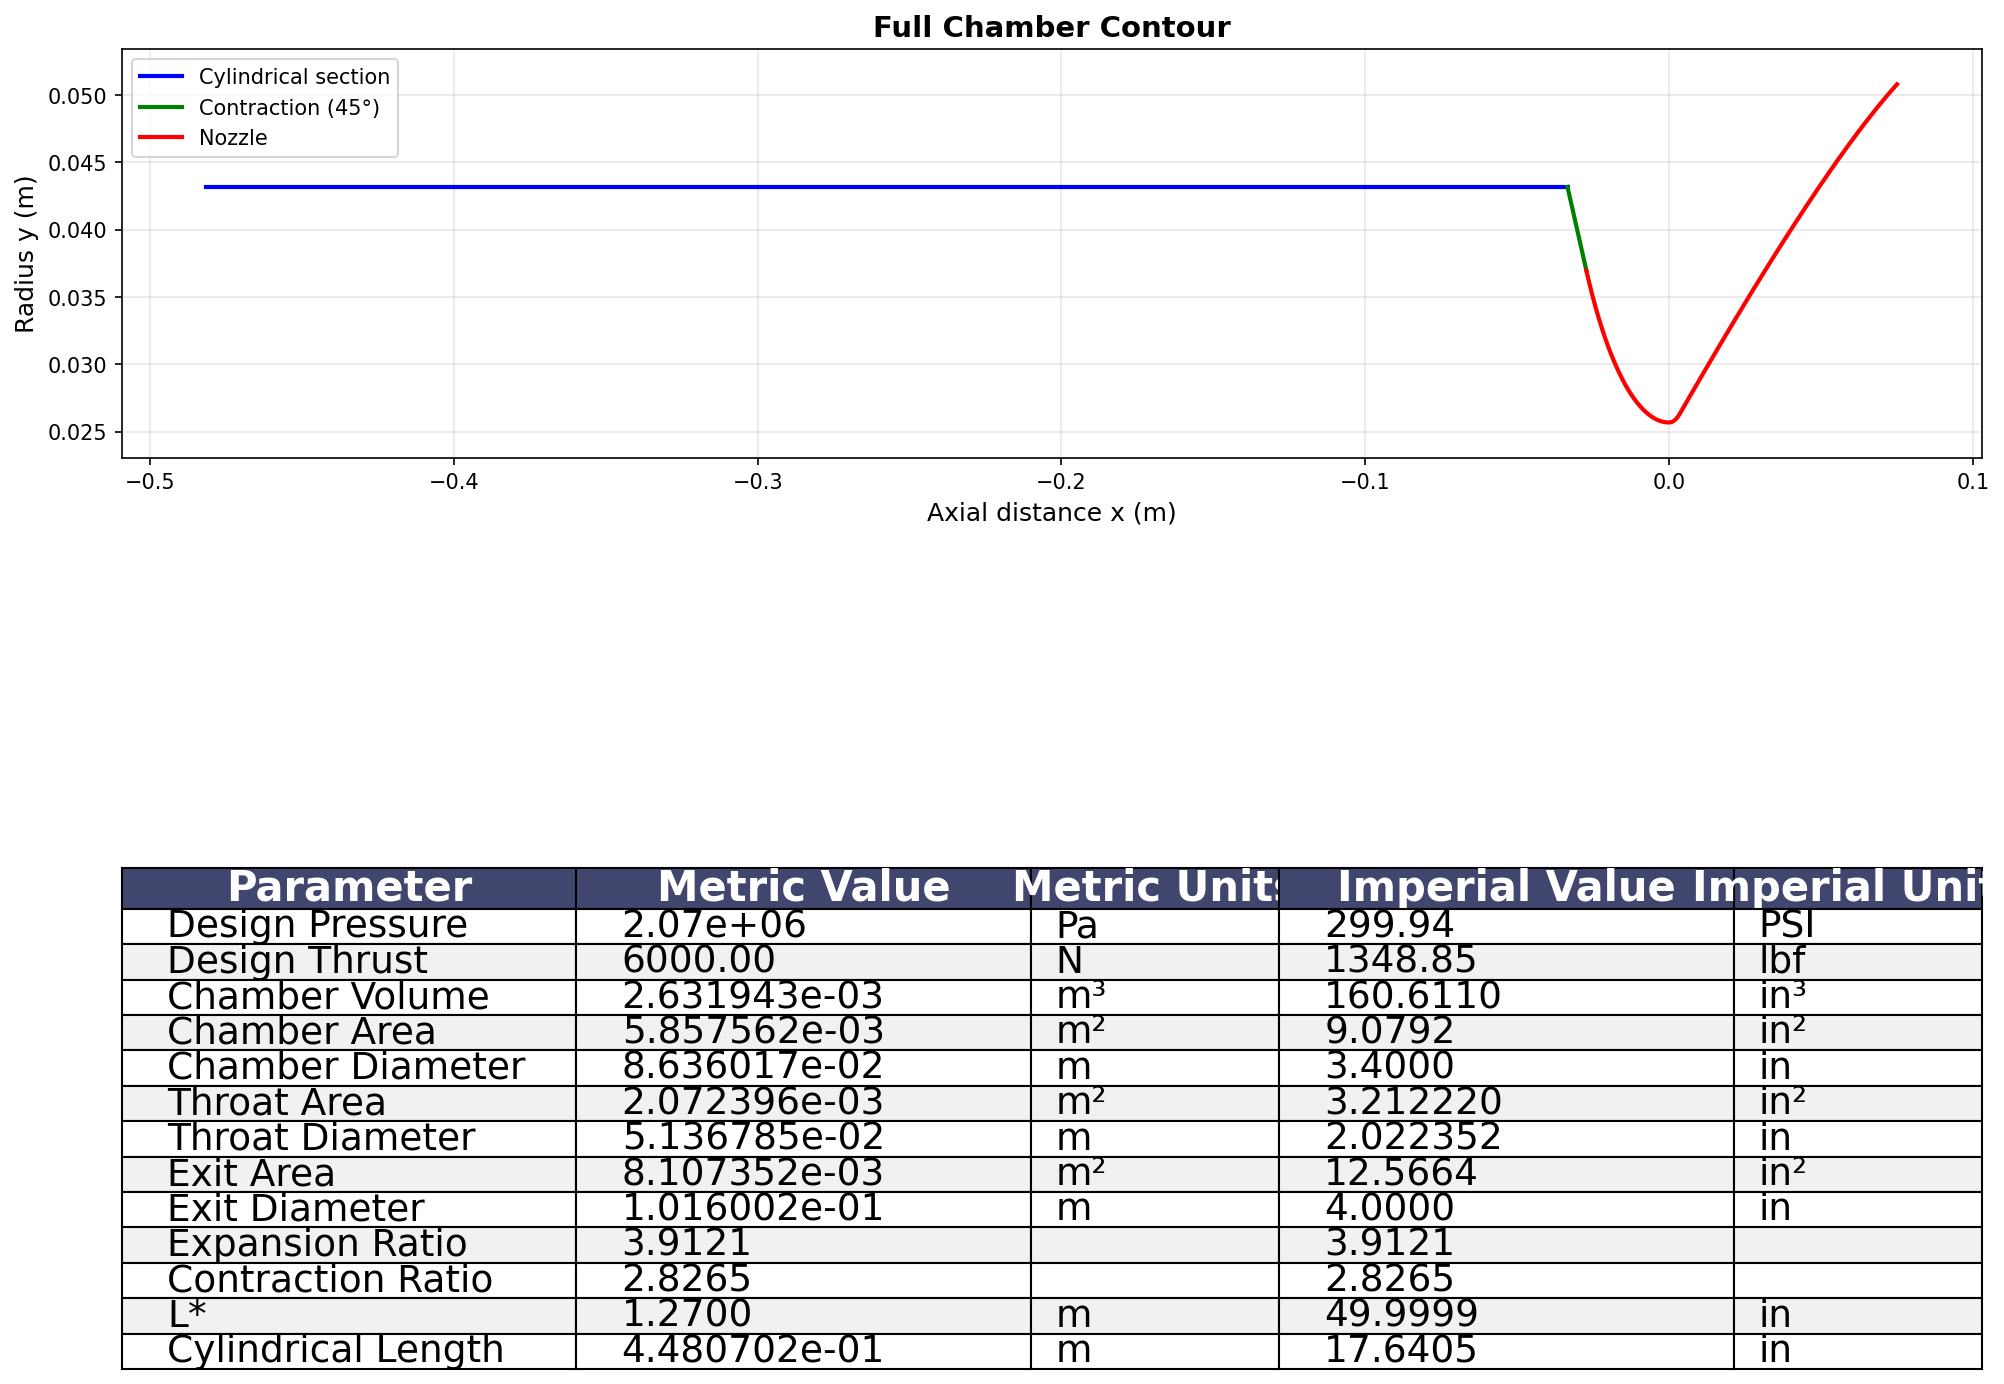
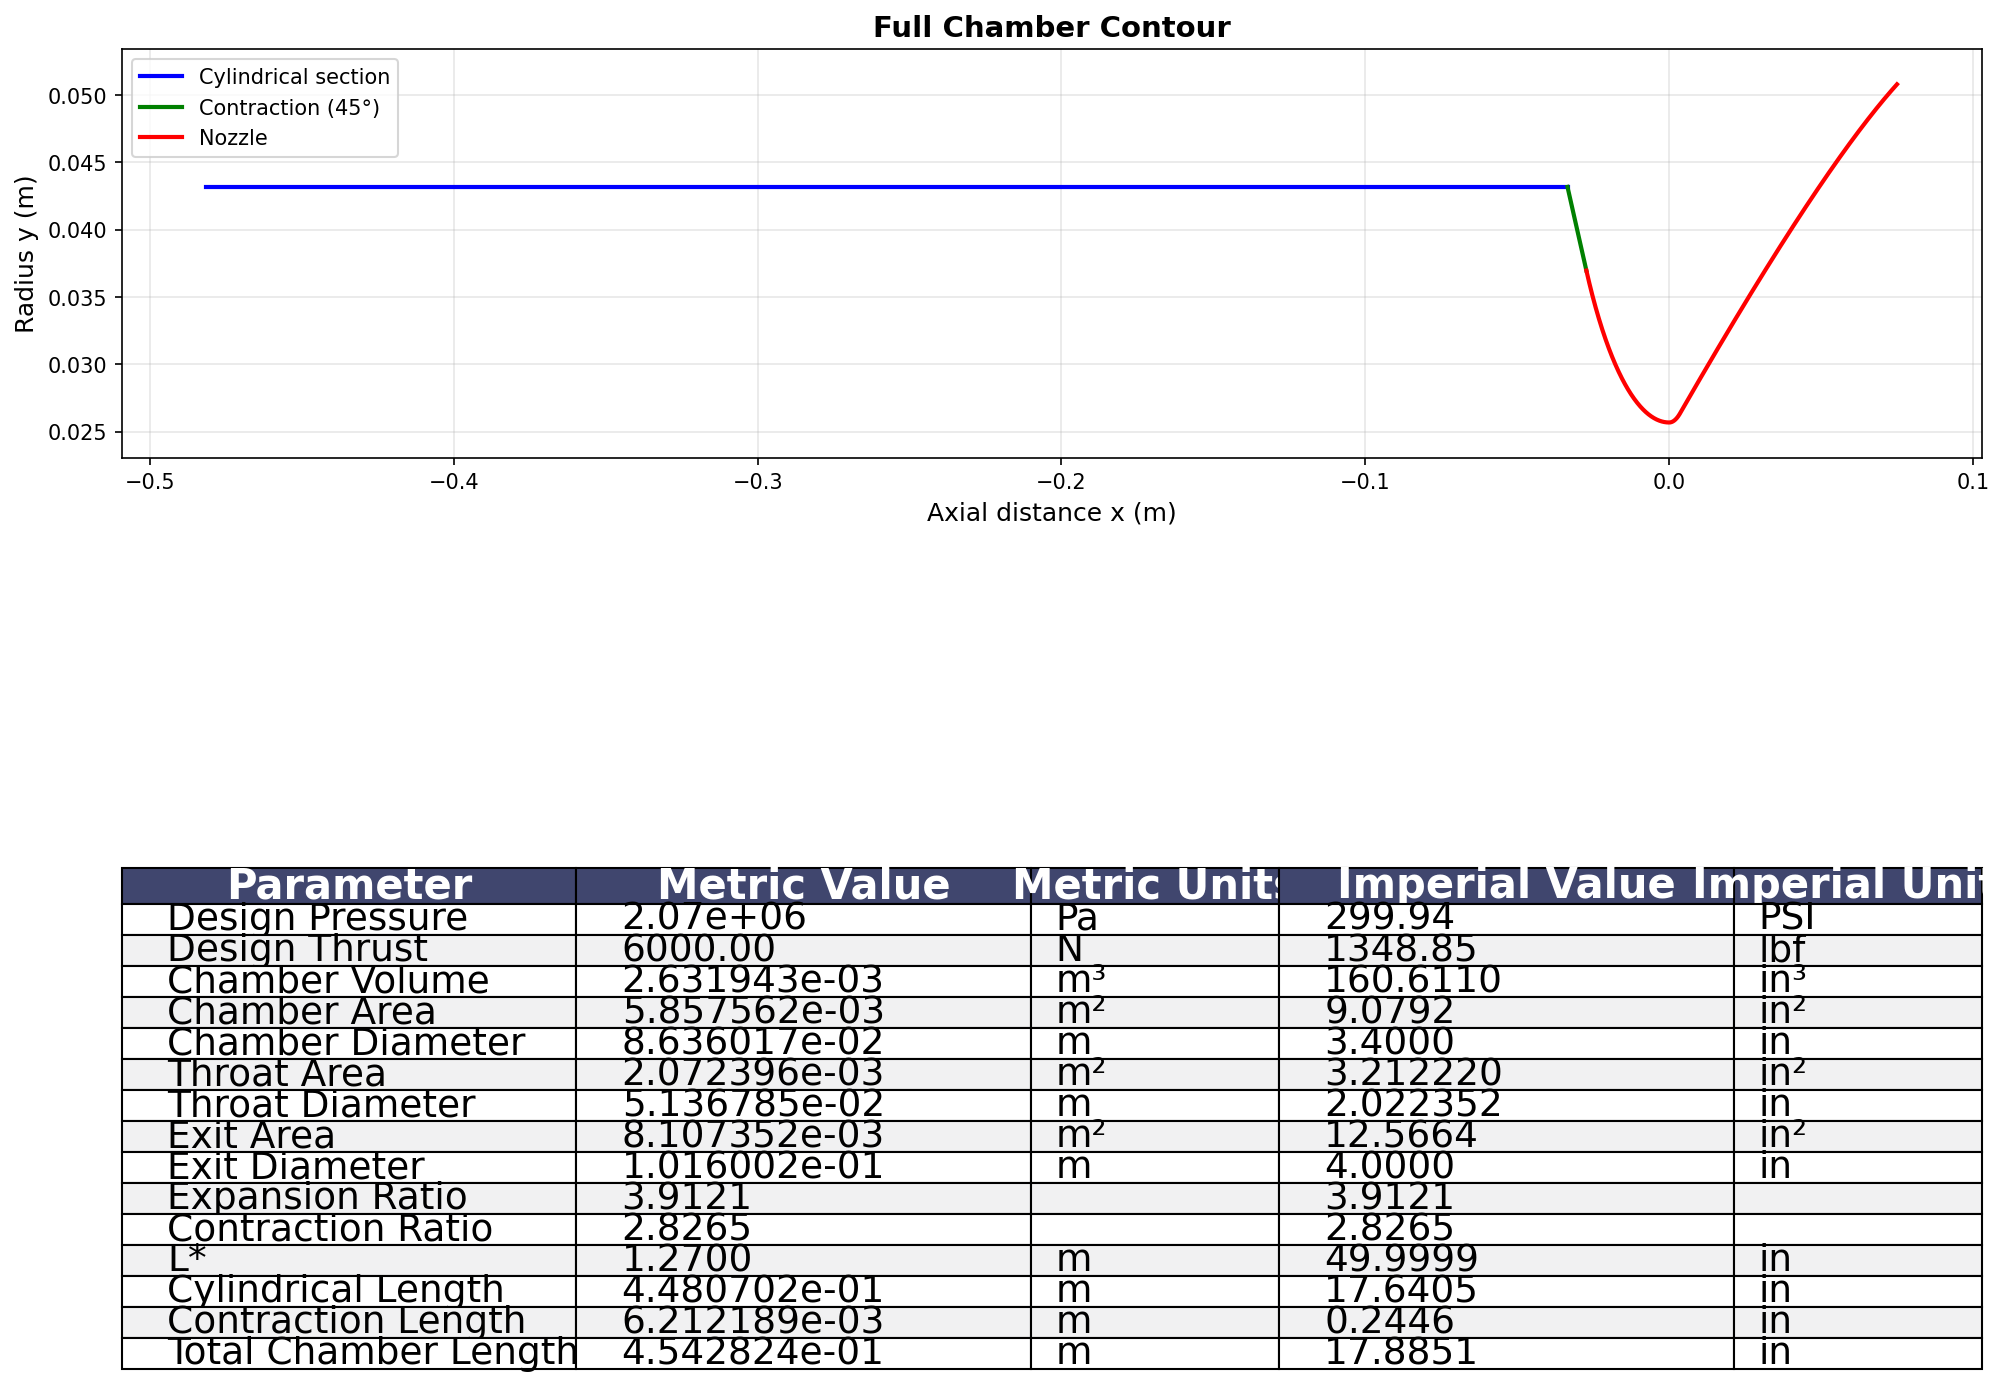
kush is goat

Changed region(s): [[0.0619, 0.6214, 0.99, 0.9942]]

diff --git a/examples/pintle_engine/ui_app.py b/examples/pintle_engine/ui_app.py
@@ -2187,7 +2187,7 @@ def chamber_design_view(config_obj: PintleEngineConfig) -> PintleEngineConfig:
             
             # Calculate chamber geometry
             with st.spinner("Calculating chamber geometry..."):
-                pts, table_data = chamber_geometry_calc(
+                pts, table_data, total_chamber_length = chamber_geometry_calc(
                     pc_design=pc_design_metric,
                     thrust_design=thrust_design_metric,
                     force_coeffcient=force_coefficient,
@@ -2229,6 +2229,10 @@ def chamber_design_view(config_obj: PintleEngineConfig) -> PintleEngineConfig:
                 if "L*" in calculated_values and "Lstar" in config_dict["chamber"]:
                     config_dict["chamber"]["Lstar"] = calculated_values["L*"]
                     updated = True
+                # Update chamber length with total chamber length (cylindrical + contraction)
+                if "Total Chamber Length" in calculated_values:
+                    config_dict["chamber"]["length"] = calculated_values["Total Chamber Length"]
+                    updated = True
             
             # Update nozzle section
             if "nozzle" in config_dict:
@@ -2249,22 +2253,14 @@ def chamber_design_view(config_obj: PintleEngineConfig) -> PintleEngineConfig:
                     updated = True
             
             # Store calculation results in session state so they persist after rerun
+            # Note: config_dict contains the updated values but they are NOT automatically loaded
             st.session_state["chamber_calc_results"] = {
                 "pts": pts,
                 "table_data": table_data,
                 "calculated_values": calculated_values,
                 "config_dict": config_dict,
-                "updated": updated
+                "updated": updated  # This just indicates values were calculated, not that they're loaded
             }
-            
-            if updated:
-                st.success("Configuration updated with calculated values!")
-                # Update session state
-                st.session_state["config_dict"] = config_dict
-                # Recreate config object
-                config_obj = PintleEngineConfig(**config_dict)
-                # Mark that config was updated so runner gets recreated
-                st.session_state["config_updated"] = True
             
             # Generate DXF file for download
             dxf_bytes = None
@@ -2277,7 +2273,7 @@ def chamber_design_view(config_obj: PintleEngineConfig) -> PintleEngineConfig:
                     tmp_dxf_path = tmp_file.name
                 
                 # Generate DXF using chamber_geometry_calc
-                chamber_geometry_calc(
+                _, _, _ = chamber_geometry_calc(
                     pc_design=pc_design_metric,
                     thrust_design=thrust_design_metric,
                     force_coeffcient=force_coefficient,
@@ -2316,11 +2312,6 @@ def chamber_design_view(config_obj: PintleEngineConfig) -> PintleEngineConfig:
             # Display results using helper function
             _display_chamber_results(results_for_display)
             
-            # If config was updated, trigger a rerun to recreate the runner
-            # This happens after displaying results so user can see them
-            if updated:
-                st.rerun()
-            
         except Exception as e:
             st.error(f"Error calculating chamber geometry: {str(e)}")
             import traceback
@@ -2337,8 +2328,6 @@ def chamber_design_view(config_obj: PintleEngineConfig) -> PintleEngineConfig:
             display_results["dxf_bytes"] = None
         
         _display_chamber_results(display_results)
-        # Update config_obj with the stored config_dict
-        config_obj = PintleEngineConfig(**stored_results["config_dict"])
     
     return config_obj
 
@@ -2349,10 +2338,6 @@ def _display_chamber_results(results: dict) -> None:
     table_data = results["table_data"]
     config_dict = results["config_dict"]
     updated = results["updated"]
-    
-    # Display the stored results
-    if updated:
-        st.success("Configuration updated with calculated values!")
     
     # Display results
     st.subheader("Chamber Contour")
@@ -2405,14 +2390,27 @@ def _display_chamber_results(results: dict) -> None:
     )
     st.dataframe(df_table, use_container_width=True, hide_index=True)
     
-    # Download buttons
+    # Load Config button and Downloads
+    st.subheader("Configuration")
+    
+    # Button to explicitly load the calculated config into the active config
+    if updated:
+        if st.button("Load Calculated Config into Active Config", type="primary", key="load_chamber_config"):
+            # Load the calculated config into session state
+            st.session_state["config_dict"] = config_dict
+            # Mark that config was updated so runner gets recreated
+            st.session_state["config_updated"] = True
+            st.success("✓ Calculated configuration loaded! The runner will be recreated with the new values.")
+            st.rerun()
+        st.caption("Click the button above to load the calculated values into your active configuration.")
+    
     st.subheader("Downloads")
     col1, col2 = st.columns(2)
     
     with col1:
         # Download Config button
         config_yaml = yaml.dump(config_dict, default_flow_style=False, sort_keys=False)
-        button_label = "Download Updated Config (YAML)" if updated else "Download Config (YAML)"
+        button_label = "Download Calculated Config (YAML)" if updated else "Download Config (YAML)"
         st.download_button(
             button_label,
             data=config_yaml,
@@ -2421,7 +2419,7 @@ def _display_chamber_results(results: dict) -> None:
             key="download_config_chamber"
         )
         if updated:
-            st.caption("✓ Config has been updated with calculated values")
+            st.caption("Download the calculated configuration as a YAML file")
     
     with col2:
         # Download DXF button

diff --git a/chamber/chamber_geometry.py b/chamber/chamber_geometry.py
@@ -146,6 +146,9 @@ def chamber_geometry_calc(pc_design, thrust_design, force_coeffcient=force_coeff
     cylindrical_length = chamber_length_calc(volume_chamber, area_throat, contraction_ratio, theta_default)
     contraction_length_horizontal = contraction_length_horizontal_calc(area_chamber, nozzle_y_first, theta_default)
     
+    # Calculate total chamber length (cylindrical + contraction) from injector face to throat
+    total_chamber_length = cylindrical_length + contraction_length_horizontal
+    
     # Calculate chamber radius
     r_c = np.sqrt(area_chamber / np.pi)
     
@@ -196,6 +199,8 @@ def chamber_geometry_calc(pc_design, thrust_design, force_coeffcient=force_coeff
     diameter_exit_in = diameter_exit_calc * m_to_in
     l_star_in = l_star * m_to_in
     cylindrical_length_in = cylindrical_length * m_to_in
+    contraction_length_horizontal_in = contraction_length_horizontal * m_to_in
+    total_chamber_length_in = total_chamber_length * m_to_in
     pc_design_psi = pc_design * pa_to_psi
     thrust_design_lbf = thrust_design * n_to_lbf
     
@@ -215,6 +220,8 @@ def chamber_geometry_calc(pc_design, thrust_design, force_coeffcient=force_coeff
         ['Contraction Ratio', f'{contraction_ratio:.4f}', '', f'{contraction_ratio:.4f}', ''],
         ['L*', f'{l_star:.4f}', 'm', f'{l_star_in:.4f}', 'in'],
         ['Cylindrical Length', f'{cylindrical_length:.6e}', 'm', f'{cylindrical_length_in:.4f}', 'in'],
+        ['Contraction Length', f'{contraction_length_horizontal:.6e}', 'm', f'{contraction_length_horizontal_in:.4f}', 'in'],
+        ['Total Chamber Length', f'{total_chamber_length:.6e}', 'm', f'{total_chamber_length_in:.4f}', 'in'],
     ]
     
     # Plot if requested
@@ -320,7 +327,8 @@ def chamber_geometry_calc(pc_design, thrust_design, force_coeffcient=force_coeff
         doc.saveas(export_dxf)
         print(f"Chamber contour exported to {export_dxf}")
     
-    return chamber_pts, table_data
+    # Also return the total chamber length as a separate value for easy access
+    return chamber_pts, table_data, total_chamber_length
 
-pts, data = chamber_geometry_calc(pc_design=2.068e6, thrust_design=6000, do_plot=True, color_segments=True, export_dxf='chamber/chamber_contour.dxf')
+pts, data, total_length = chamber_geometry_calc(pc_design=2.068e6, thrust_design=6000, do_plot=True, color_segments=True, export_dxf='chamber/chamber_contour.dxf')
  
